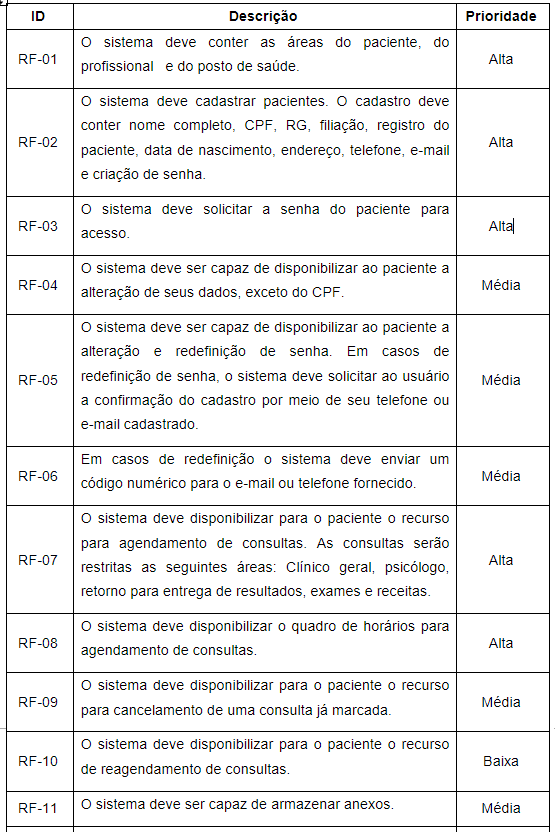
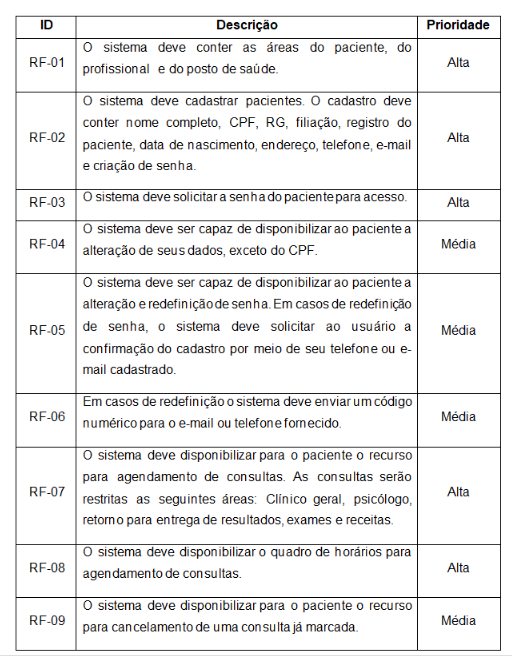
Update especificacao.

diff --git a/docs/02-Especificação do Projeto.md b/docs/02-Especificação do Projeto.md
@@ -43,45 +43,20 @@ As tabelas que se seguem apresentam os requisitos funcionais e não funcionais q
 
 ### Requisitos Funcionais
 
-|ID    | Descrição do Requisito  | Prioridade |
-|------|-----------------------------------------|----|
-|RF-001| Permitir que o usuário cadastre tarefas | ALTA |
-|RF-002| Emitir um relatório de tarefas no mês   | MÉDIA |
+![alt text](/docs/img/requisito_funcional_01.png)
+
+![alt text](/docs/img/requisito_funcional_02.png)
+
+![alt text](/docs/img/requisito_funcional_03.png)
 
 ### Requisitos não Funcionais
 
-|ID     | Descrição do Requisito  |Prioridade |
-|-------|-------------------------|----|
-|RNF-001| O sistema deve ser responsivo para rodar em um dispositivos móvel | MÉDIA |
-|RNF-002| Deve processar requisições do usuário em no máximo 3s |  BAIXA |
+![alt text](/docs/img/requisito_nao_funcional_01.png)
 
-Com base nas Histórias de Usuário, enumere os requisitos da sua solução. Classifique esses requisitos em dois grupos:
-
-- [Requisitos Funcionais
- (RF)](https://pt.wikipedia.org/wiki/Requisito_funcional):
- correspondem a uma funcionalidade que deve estar presente na
-  plataforma (ex: cadastro de usuário).
-- [Requisitos Não Funcionais
-  (RNF)](https://pt.wikipedia.org/wiki/Requisito_n%C3%A3o_funcional):
-  correspondem a uma característica técnica, seja de usabilidade,
-  desempenho, confiabilidade, segurança ou outro (ex: suporte a
-  dispositivos iOS e Android).
-Lembre-se que cada requisito deve corresponder à uma e somente uma
-característica alvo da sua solução. Além disso, certifique-se de que
-todos os aspectos capturados nas Histórias de Usuário foram cobertos.
+![alt text](/docs/img/requisito_nao_funcional_02.png)
 
 ## Restrições
 
 O projeto está restrito pelos itens apresentados na tabela a seguir.
 
-|ID| Restrição                                             |
-|--|-------------------------------------------------------|
-|01| O projeto deverá ser entregue até o final do semestre |
-|02| Não pode ser desenvolvido um módulo de backend        |
-
-Enumere as restrições à sua solução. Lembre-se de que as restrições geralmente limitam a solução candidata.
-
-> **Links Úteis**:
->
-> - [O que são Requisitos Funcionais e Requisitos Não Funcionais?](https://codificar.com.br/requisitos-funcionais-nao-funcionais/)
-> - [O que são requisitos funcionais e requisitos não funcionais?](https://analisederequisitos.com.br/requisitos-funcionais-e-requisitos-nao-funcionais-o-que-sao/)
+![alt text](/docs/img/restricoes.png)
